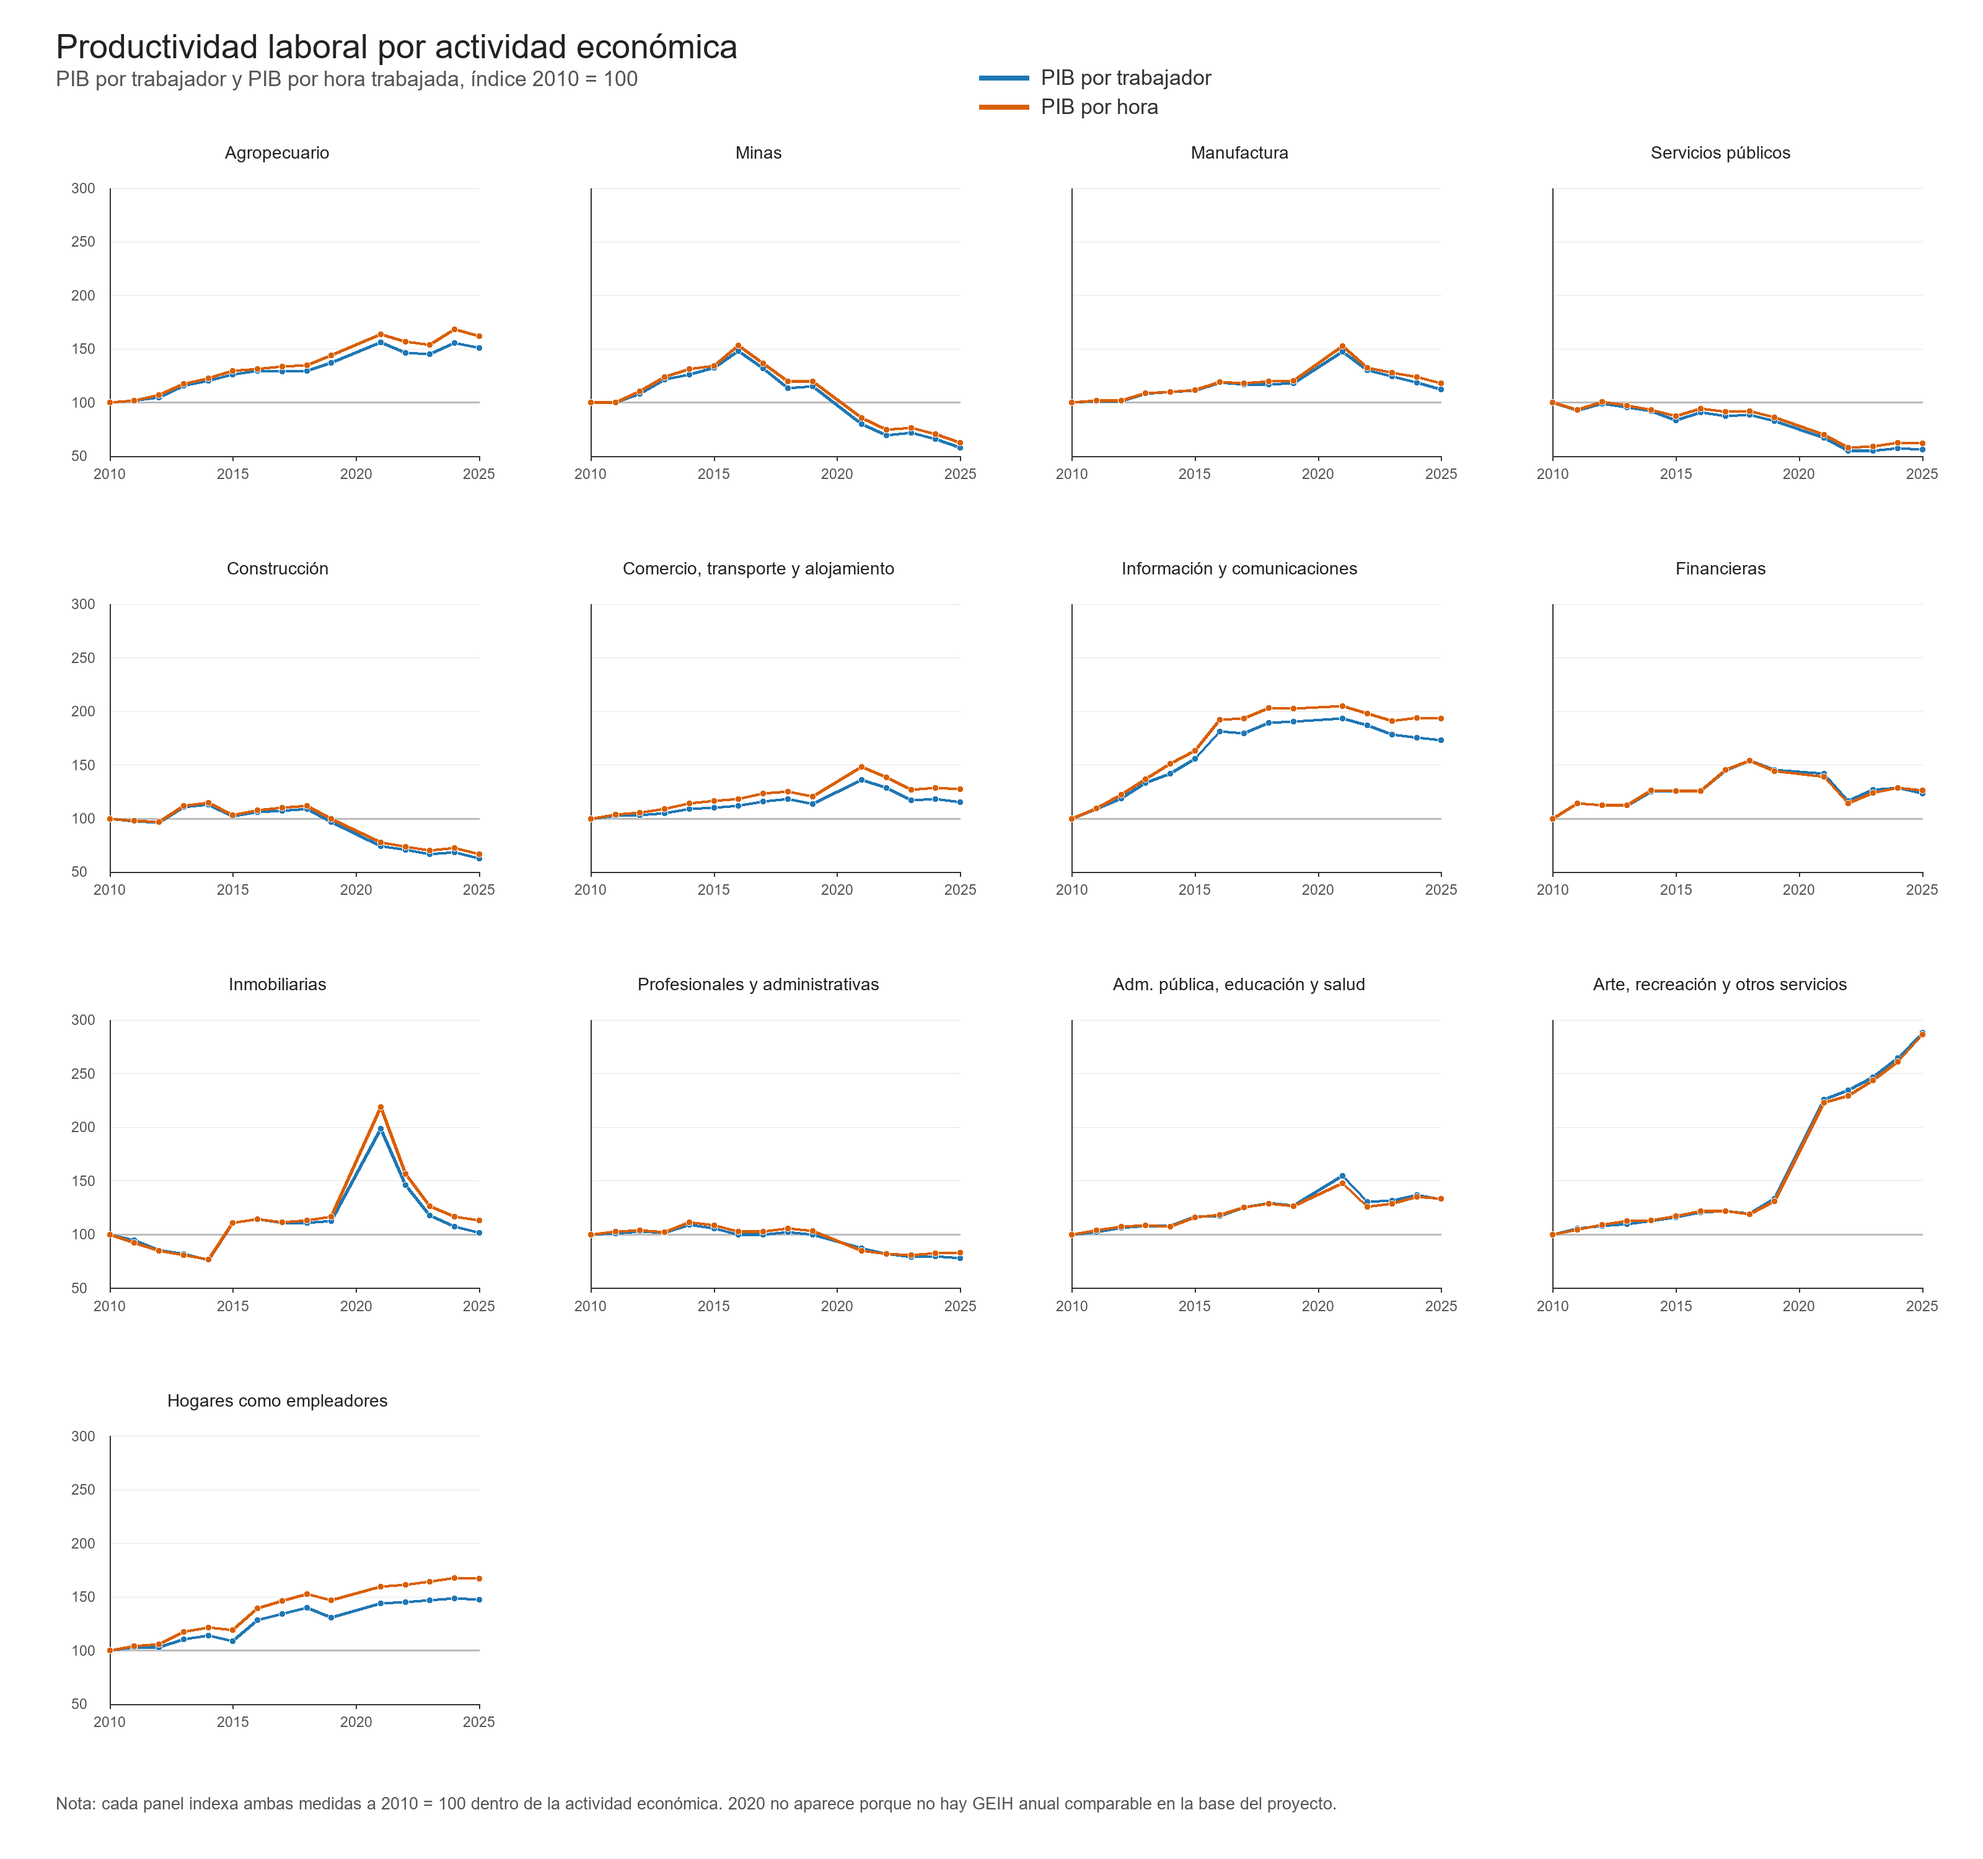
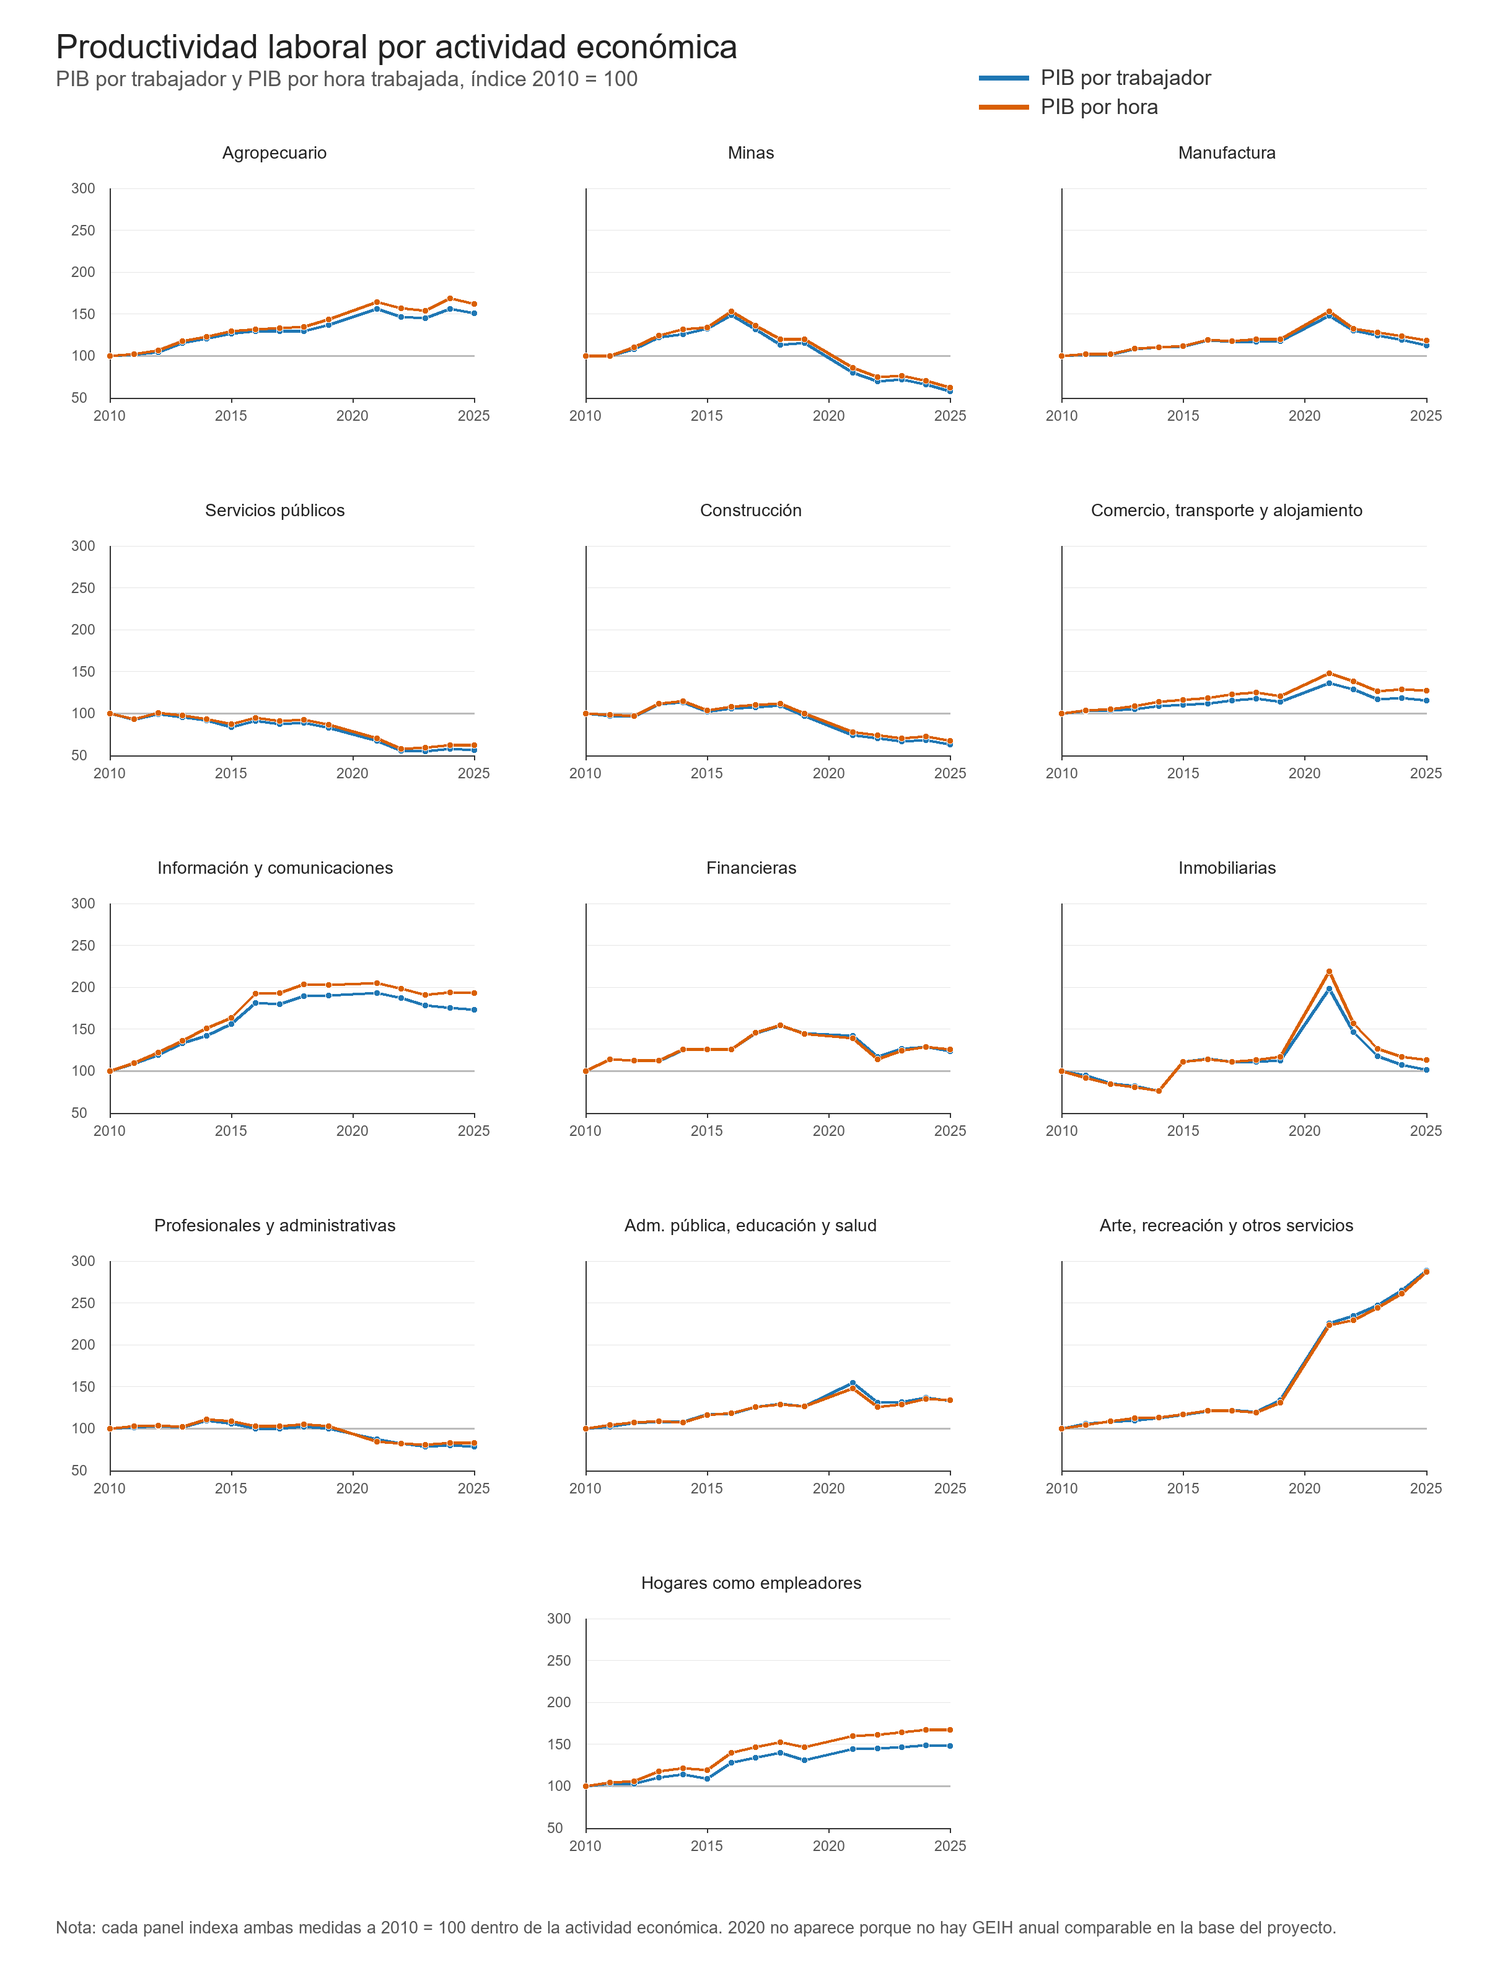
Organiza figura de indices en tres columnas

diff --git a/Code/02.5_PIB_GEIH_Productividad.py b/Code/02.5_PIB_GEIH_Productividad.py
@@ -2736,7 +2736,7 @@ def write_productivity_61_section(data: pd.DataFrame, summary: pd.DataFrame) -> 
         "",
         r"\begin{figure}[H]",
         r"  \centering",
-        r"  \makebox[\textwidth][c]{\includegraphics[width=1.18\textwidth]{Paper/figures/fig_pib_geih_productividad_sector_indices.png}}",
+        r"  \makebox[\textwidth][c]{\includegraphics[width=1.03\textwidth]{Paper/figures/fig_pib_geih_productividad_sector_indices.png}}",
         r"  \caption{Productividad laboral por grandes ramas de actividad económica, índice 2010 = 100}",
         r"  \label{fig:pib_geih_productividad_sector_indices}",
         r"  \caption*{\footnotesize Nota: el PIB por trabajador y el PIB por hora trabajada se indexan a 2010 = 100 dentro de cada actividad económica. Se excluye 2020 por no contar con GEIH anual comparable en la base del proyecto. Fuente: cálculos propios con DANE y GEIH.}",
@@ -3381,9 +3381,9 @@ def draw_sector_index_panels(sector: pd.DataFrame) -> None:
     y_max = max(y_max, 150)
 
     n_panels = len(SECTOR_ORDER)
-    cols = 4 if n_panels > 12 else 3
+    cols = 3
     rows = math.ceil(n_panels / cols)
-    img_w, img_h = (3200, 3000) if cols == 4 else (2400, 3000)
+    img_w, img_h = 2400, 3200
     img = Image.new("RGB", (img_w, img_h), "white")
     draw = ImageDraw.Draw(img)
     font = ImageFont.load_default()
@@ -3436,11 +3436,13 @@ def draw_sector_index_panels(sector: pd.DataFrame) -> None:
     gap_x, gap_y = 70, 85
     panel_w = (img_w - margin_left - margin_right - gap_x * (cols - 1)) / cols
     panel_h = (img_h - top_start - bottom_margin - gap_y * (rows - 1)) / rows
+    last_row_count = n_panels - (rows - 1) * cols
 
     for idx, code in enumerate(SECTOR_ORDER):
         row = idx // cols
         col = idx % cols
-        panel_left = margin_left + col * (panel_w + gap_x)
+        col_offset = (cols - last_row_count) / 2 if row == rows - 1 and last_row_count < cols else 0
+        panel_left = margin_left + (col + col_offset) * (panel_w + gap_x)
         panel_top = top_start + row * (panel_h + gap_y)
         panel_right = panel_left + panel_w
         panel_bottom = panel_top + panel_h

diff --git a/Paper/sections/pib_geih_productividad_61_agrupaciones.tex b/Paper/sections/pib_geih_productividad_61_agrupaciones.tex
@@ -3,7 +3,7 @@ La Figura \ref{fig:pib_geih_productividad_sector_indices} muestra la evolución 
 
 \begin{figure}[H]
   \centering
-  \makebox[\textwidth][c]{\includegraphics[width=1.18\textwidth]{Paper/figures/fig_pib_geih_productividad_sector_indices.png}}
+  \makebox[\textwidth][c]{\includegraphics[width=1.03\textwidth]{Paper/figures/fig_pib_geih_productividad_sector_indices.png}}
   \caption{Productividad laboral por grandes ramas de actividad económica, índice 2010 = 100}
   \label{fig:pib_geih_productividad_sector_indices}
   \caption*{\footnotesize Nota: el PIB por trabajador y el PIB por hora trabajada se indexan a 2010 = 100 dentro de cada actividad económica. Se excluye 2020 por no contar con GEIH anual comparable en la base del proyecto. Fuente: cálculos propios con DANE y GEIH.}
